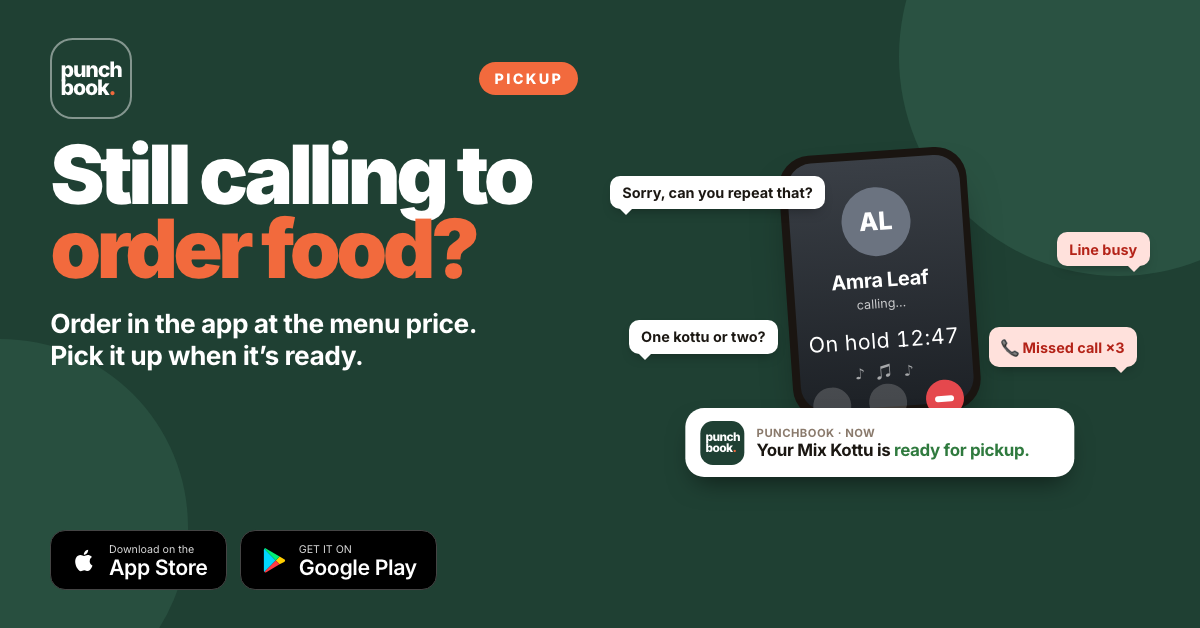
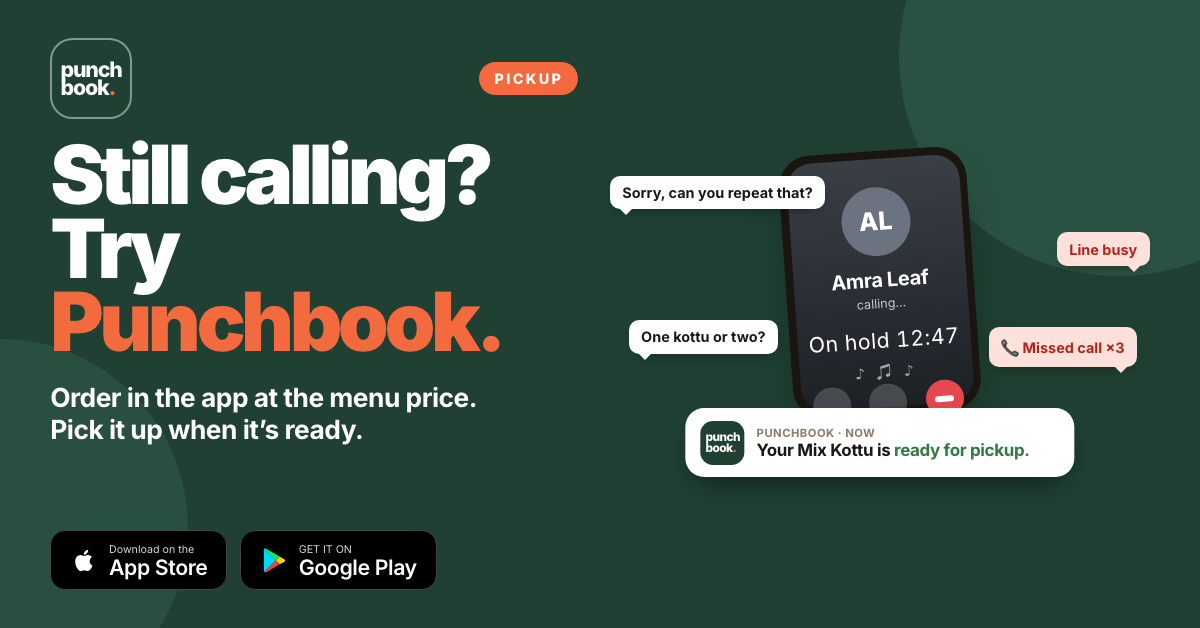
Ads: new headlines (Pick up food, Skip the queue, Still calling? Try Punchbook)

Changed region(s): [[0.0308, 0.2118, 0.4625, 0.7261]]

diff --git a/marketing/ads/src/ad.html b/marketing/ads/src/ad.html
@@ -123,10 +123,10 @@ const queue=`<div class="scene"><svg class="arc" viewBox="0 0 100 20" preserveAs
 const call=`<div class="call"><div class="cphone"><div class="cscr"><div class="av">AL</div><div class="cn">Amra Leaf</div><div class="cs">calling…</div><div class="hold">On hold 12:47</div><div class="notes">♪ ♫ ♪</div><div class="cbtns"><i></i><i></i><i class="end"></i></div></div></div><span class="bub" style="left:0;top:4vmin">Sorry, can you repeat that?</span><span class="bub red r" style="right:0;top:13vmin">Line busy</span><span class="bub" style="left:3vmin;top:27vmin">One kottu or two?</span><span class="bub red r" style="right:2vmin;top:28vmin">📞 Missed call ×3</span><div class="notif"><div class="ni"><span>punch<br>book<b>.</b></span></div><div><small>PUNCHBOOK · NOW</small><strong>Your Mix Kottu is <em>ready for pickup.</em></strong></div></div></div>`;
 const C={
  '1':{h:`The Pick Up<br>Order <em>App.</em>`,body:`<p class="sub"><span class="hl">At restaurant prices.</span></p><p class="save">Save up to LKR 400<br>every order<sup>*</sup></p>`,side:phone,fine:1},
- '2':{h:`Same food.<br><em>Less to pay.</em>`,body:`<div class="cmp"><div class="us">Punchbook <span>Menu price</span></div><div class="them">Other apps <span>Up to LKR 400 more</span></div></div>`,side:phone,fine:1},
+ '2':{h:`Pick up food.<br><em>Less to pay.</em>`,body:`<div class="cmp"><div class="us">Punchbook <span>Menu price</span></div><div class="them">Other apps <span>Up to LKR 400 more</span></div></div>`,side:phone,fine:1},
  '3':{h:`Walk in.<br>Walk <em>out.</em>`,body:`<p class="sub">Order ahead. Show your code.<br>Grab your food and go.</p>`,side:ticket,fine:0},
- '4':{h:`Your food’s ready.<br>The line <em>isn’t.</em>`,body:`<p class="sub">Order food ahead in the app.<br>Walk straight to the pickup counter.</p>`,side:queue,fine:0,scene:1},
- '5':{h:`Still calling to<br><em>order food?</em>`,body:`<p class="sub">Order in the app at the menu price.<br>Pick it up when it’s ready.</p>`,side:call,fine:0,scene:1},
+ '4':{h:`Pick up orders online.<br>Skip the <em>queue.</em>`,body:`<p class="sub">Order food ahead in the app.<br>Walk straight to the pickup counter.</p>`,side:queue,fine:0,scene:1},
+ '5':{h:`Still calling?<br>Try <em>Punchbook.</em>`,body:`<p class="sub">Order in the app at the menu price.<br>Pick it up when it’s ready.</p>`,side:call,fine:0,scene:1},
 };
 const d=C[c];let html;
 if(land){html=`<div class="col">${head}<h1>${d.h}</h1>${d.body}<div class="spacer"></div>${stores}${d.fine?fine:''}</div><div class="side">${d.side}</div>`}

diff --git a/marketing/ads/ad-copy.md b/marketing/ads/ad-copy.md
@@ -11,7 +11,7 @@ Headlines (30 characters max)
 2. Order Ahead, Skip the Queue
 3. At Restaurant Prices
 4. Save Up to LKR 400 an Order
-5. Same Food. Less to Pay.
+5. Pick Up Food. Less to Pay.
 6. Pay the Menu Price
 7. Order Food for Pickup
 8. Ready in 15 Minutes
@@ -35,10 +35,10 @@ Images: `google/landscape-*.png` (1200 × 628), `google/square-*.png` (1200 × 1
 
 Short headlines (30 max)
 - The Pick Up Order App
-- Same Food. Less to Pay.
+- Pick Up Food. Less to Pay.
 - Walk In. Walk Out.
-- Your Food’s Ready
-- Still Calling to Order Food?
+- Skip the Queue
+- Still Calling? Try Punchbook.
 
 Long headline (90 max)
 - Order ahead and pick up at the counter, at restaurant prices. Save up to LKR 400 an order.
@@ -58,7 +58,7 @@ Caption 1 (with feed-1, The Pick Up Order App)
 > Other food apps add up to LKR 400 to every order. Punchbook doesn't.
 > Free on the App Store and Google Play. Link in bio.
 
-Caption 2 (with feed-2, Same food. Less to pay.)
+Caption 2 (with feed-2, Pick up food. Less to pay.)
 > Same food. Same restaurant. Up to LKR 400 less. 🍛
 > Order on Punchbook and pay the menu price, not an app price.
 > Now live at Amra Leaf, Negombo.
@@ -68,12 +68,12 @@ Caption 3 (with feed-3, Walk in. Walk out.)
 > Your food's waiting for you, not the other way round. No queue.
 > Get Punchbook free. Link in bio.
 
-Caption 4 (with feed-4, Your food’s ready. The line isn’t.)
+Caption 4 (with feed-4, Pick up orders online. Skip the queue.)
 > Your kottu’s ready. The queue can wait. 🥡
 > Order ahead on Punchbook and walk straight to the pickup counter.
 > At restaurant prices. Free on iPhone and Android.
 
-Caption 5 (with feed-5, Still calling to order food?)
+Caption 5 (with feed-5, Still calling? Try Punchbook.)
 > No hold music. No “can you repeat that?” 📞
 > Order your food in the Punchbook app at the menu price, and pick it up when it’s ready.
 > Get the app free. Link in bio.
